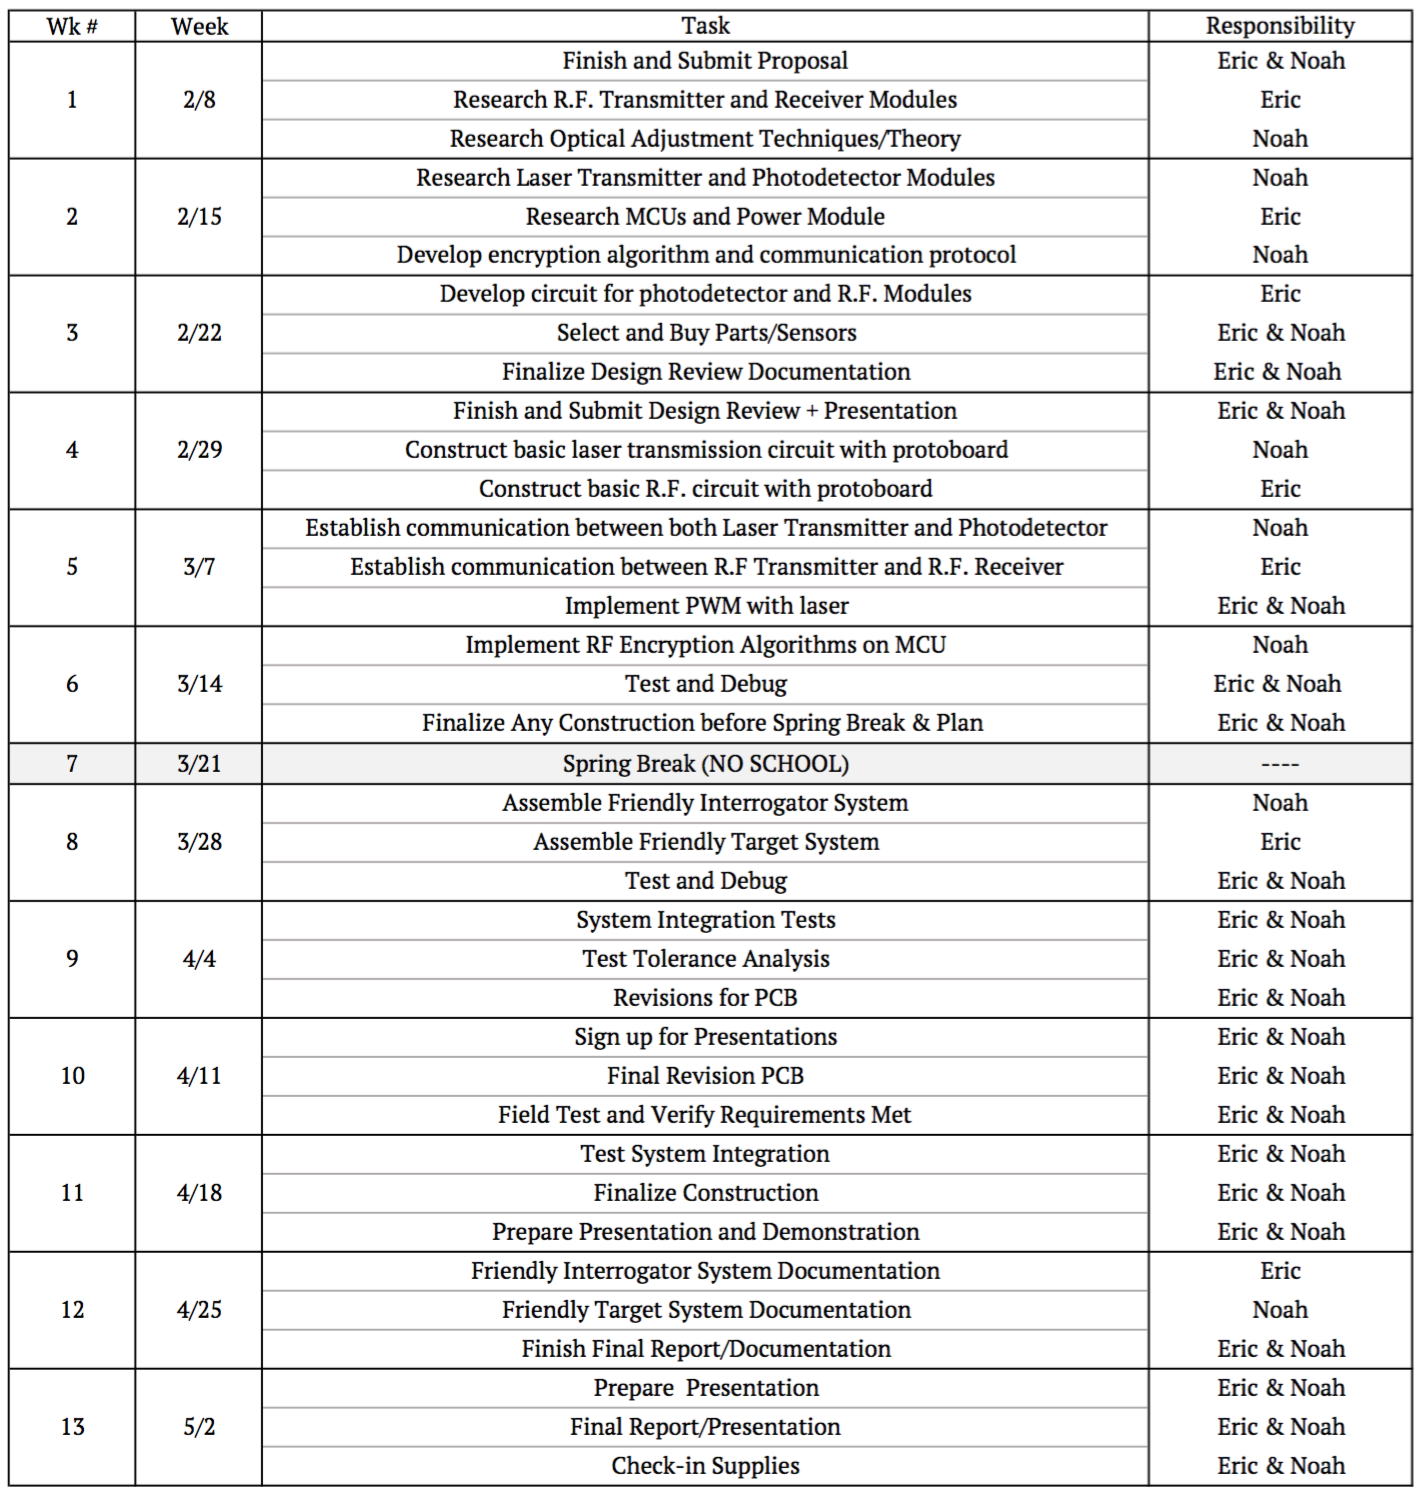
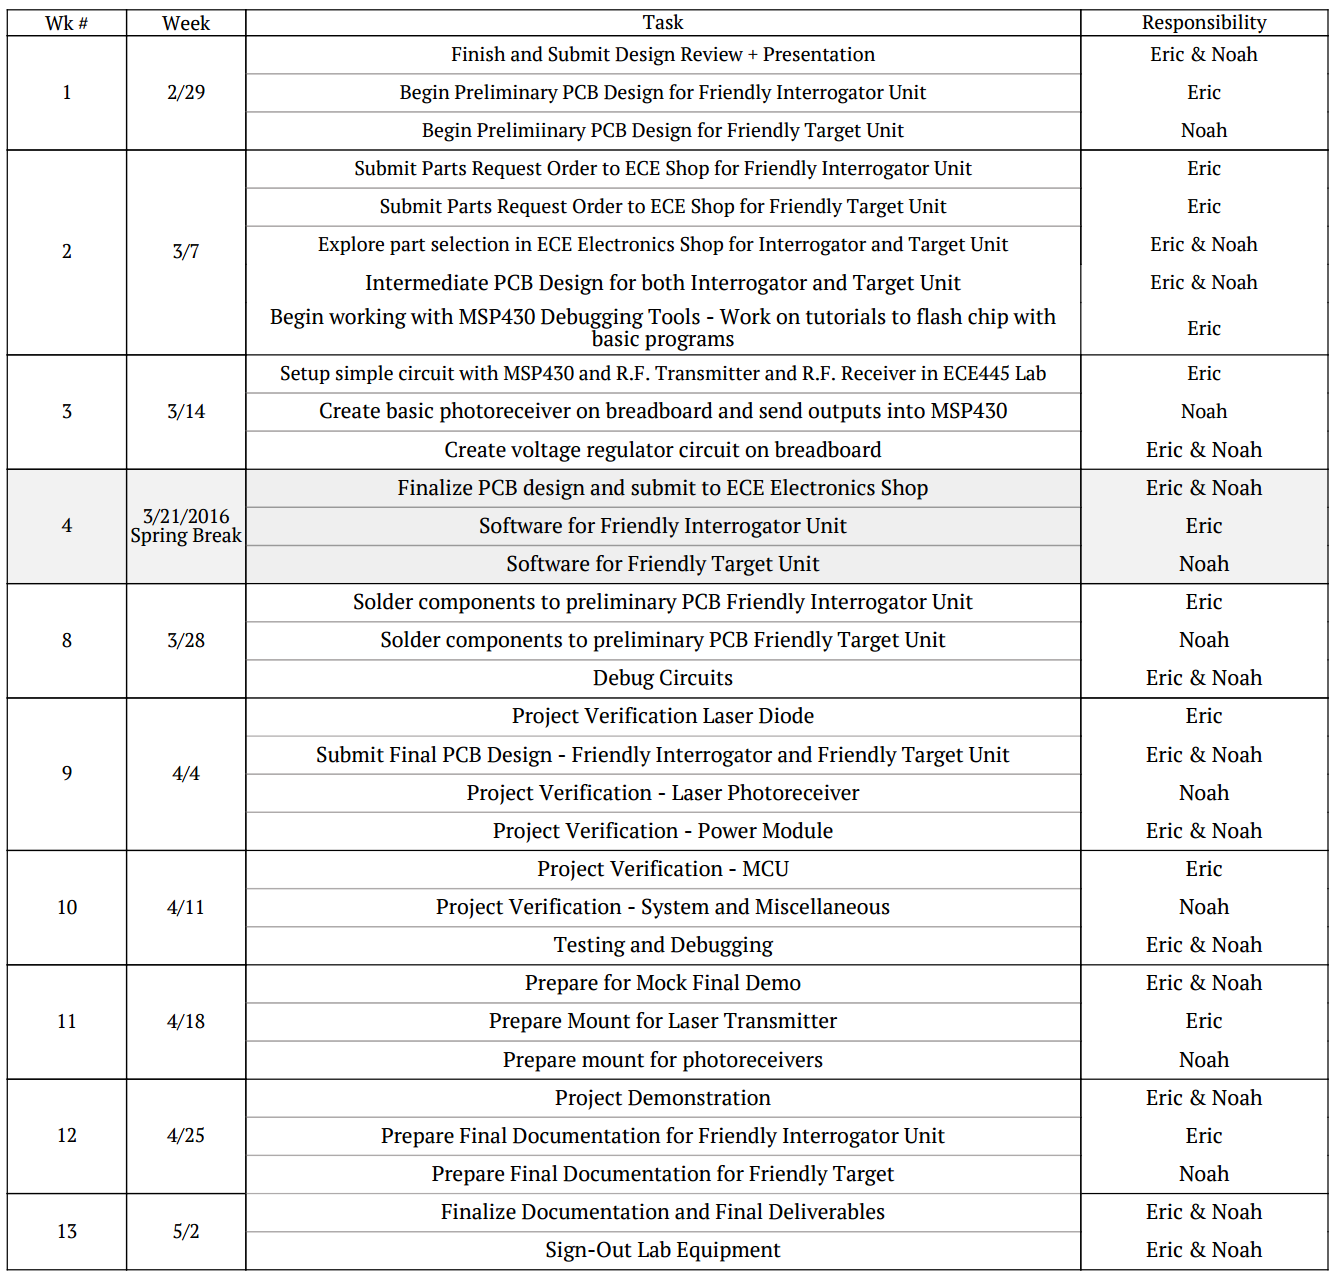
Final Merge Maybe?????? FUCK THIS PROJECT

diff --git a/ECE445-Design_Review/ECE445_Design_Review_Project_11.tex b/ECE445-Design_Review/ECE445_Design_Review_Project_11.tex
@@ -909,7 +909,6 @@ The labor cost was calculated as follows:
 Most parts were gathered using the resources found on Digi-Key Electronics and a table of these parts can be found in the Appendix in Figure \ref{fig:parts-cost-list}. \\
 
 \subsection{Schedule}
-\hl{UPDATE SCHEDULE}
 
 \begin{figure} [H]
 	\centering
@@ -946,14 +945,12 @@ Most parts were gathered using the resources found on Digi-Key Electronics and a
 	\centering
 	\includegraphics[scale=0.400]{Friendly_Target_Software_Flowchart.pdf}
 	\caption{Flowchart for Functionality\label{fig:friendly-target-software-flowchart}}
-=======
-\hl{PUT FRIENDLY TARGET SOFTWARE FLOWCHART HERE}
+\end{figure}
 
 \begin{figure} [H]
 	\centering
 	\includegraphics[scale = 0.9, angle=90]{Parts_and_Labor_Cost.pdf}
 	\caption{Parts and Labor Estimate\label{fig:parts-cost-list}}
->>>>>>> bde58db83847b7d8955c920267523ee2ca6ee025
 \end{figure}
 
 \end{spacing}
